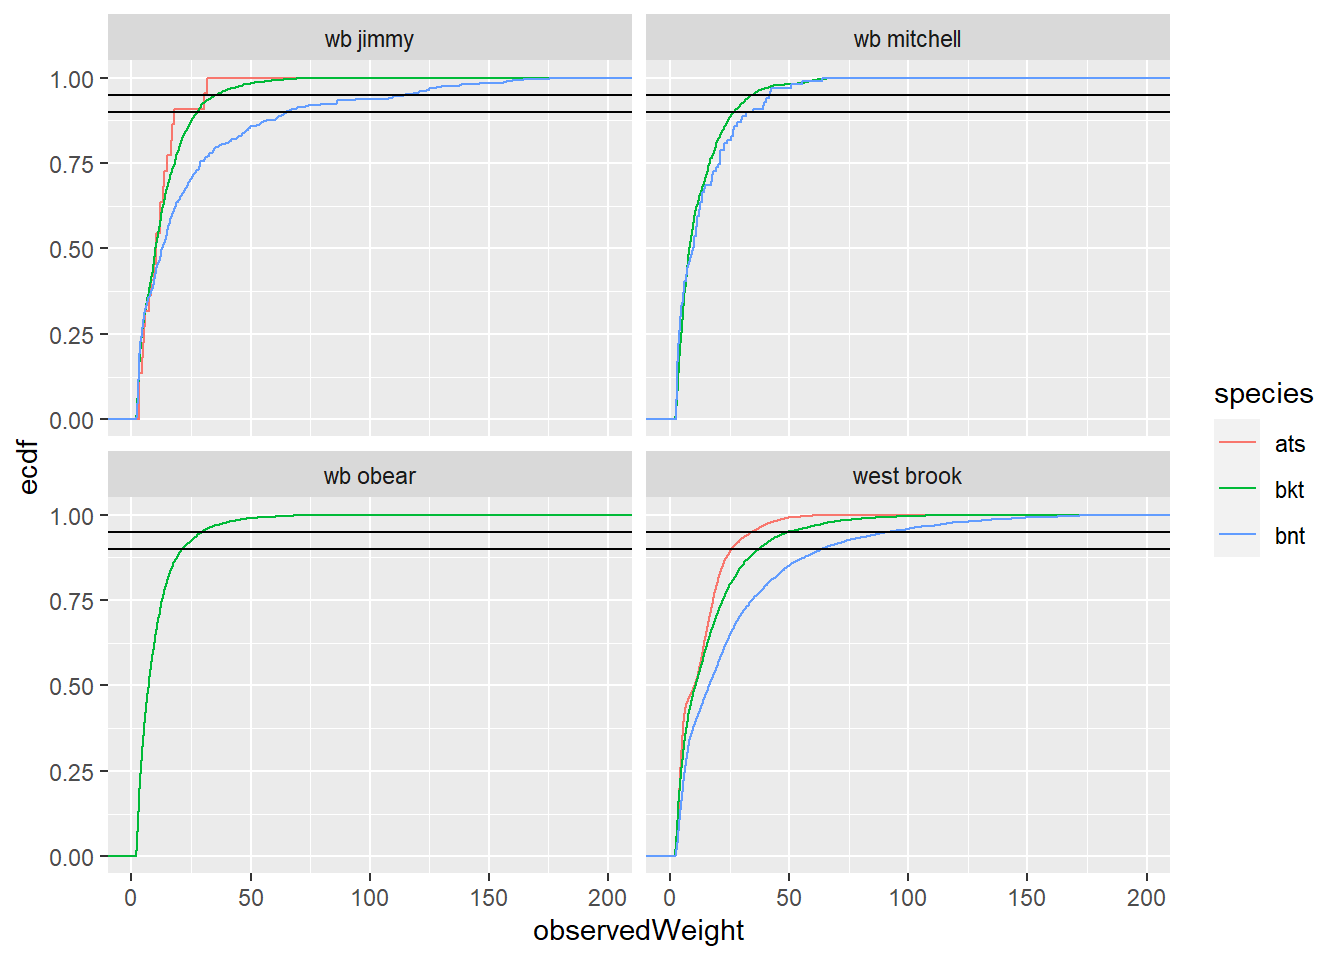
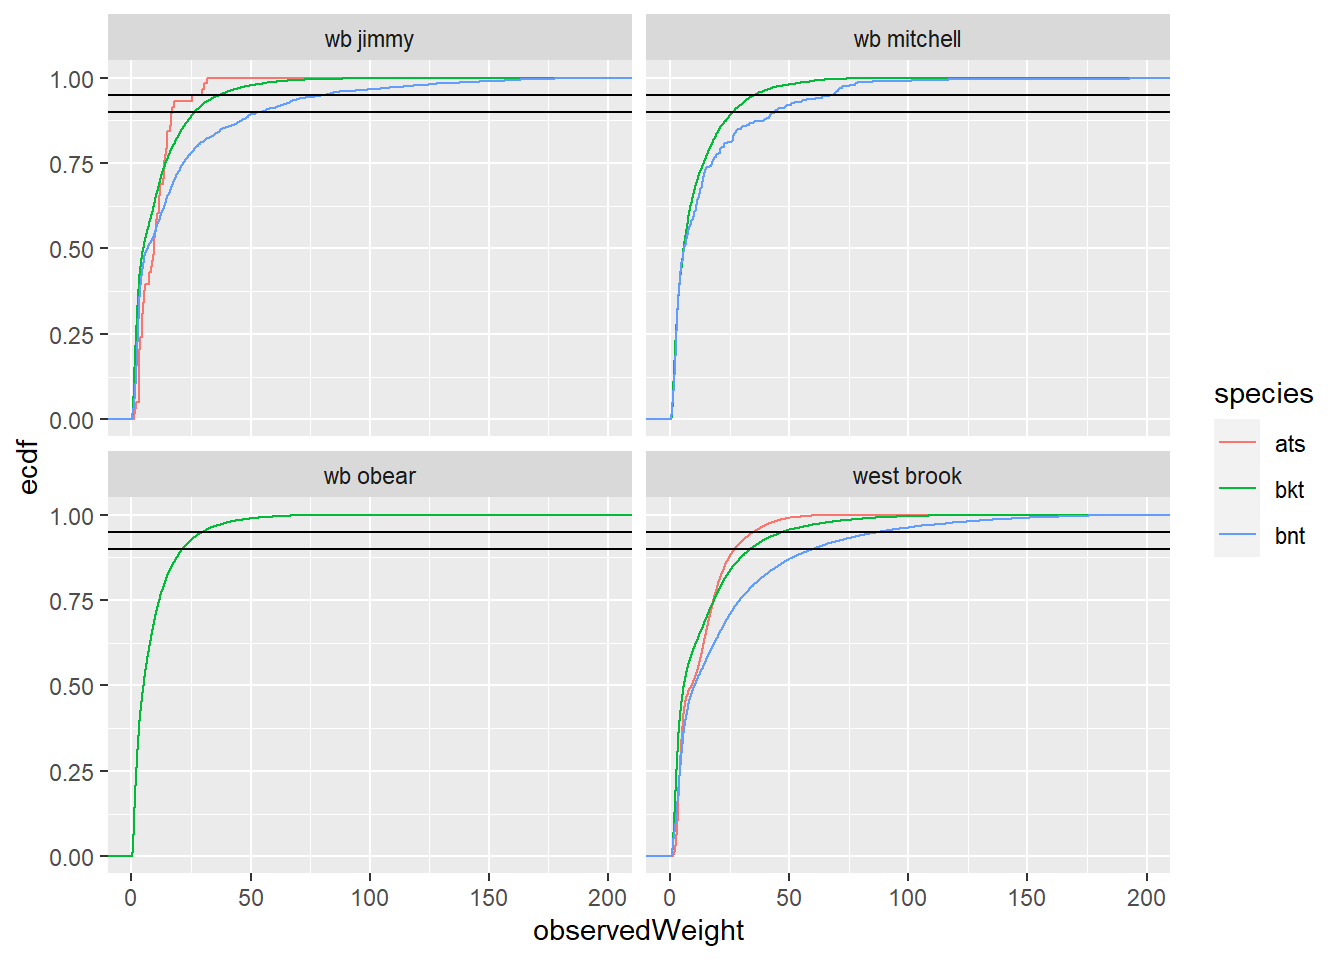
update

diff --git a/docs/getDataElectro.html b/docs/getDataElectro.html
@@ -503,9 +503,9 @@ pre > code.sourceCode > span > a:first-child::before { text-decoration: underlin
 <pre><code># A tibble: 3 × 2
   species     n
   &lt;chr&gt;   &lt;int&gt;
-1 ats      4541
-2 bkt      5786
-3 bnt      2795</code></pre>
+1 ats      7875
+2 bkt     14611
+3 bnt      7204</code></pre>
 </div>
 </div>
 <p>What are the counts by species for <em>untagged</em> fish?</p>
@@ -521,8 +521,12 @@ pre > code.sourceCode > span > a:first-child::before { text-decoration: underlin
 <span id="cb6-7"><a href="#cb6-7" aria-hidden="true" tabindex="-1"></a>  <span class="fu">summarize</span>(<span class="at">n =</span> <span class="fu">n</span>())</span></code><button title="Copy to Clipboard" class="code-copy-button"><i class="bi"></i></button></pre></div>
 </details>
 <div class="cell-output cell-output-stdout">
-<pre><code># A tibble: 0 × 2
-# ℹ 2 variables: species &lt;chr&gt;, n &lt;int&gt;</code></pre>
+<pre><code># A tibble: 3 × 2
+  species     n
+  &lt;chr&gt;   &lt;int&gt;
+1 ats      3419
+2 bkt     16013
+3 bnt      6732</code></pre>
 </div>
 </div>
 <p>Plot length distributions of tagged and untagged fish</p>
@@ -553,10 +557,60 @@ pre > code.sourceCode > span > a:first-child::before { text-decoration: underlin
 <span id="cb9-6"><a href="#cb9-6" aria-hidden="true" tabindex="-1"></a>  <span class="fu">print</span>(<span class="at">n =</span> <span class="dv">50</span>)</span></code><button title="Copy to Clipboard" class="code-copy-button"><i class="bi"></i></button></pre></div>
 </details>
 <div class="cell-output cell-output-stdout">
-<pre><code># A tibble: 1 × 2
-  comments             n
-  &lt;chr&gt;            &lt;int&gt;
-1 shock scars/mort     3</code></pre>
+<pre><code># A tibble: 96 × 2
+   comments                                                                    n
+   &lt;chr&gt;                                                                   &lt;int&gt;
+ 1 shock scars/mort                                                          264
+ 2 shock mort                                                                136
+ 3 tagging mort                                                               52
+ 4 shocking mortality                                                         42
+ 5 shocking mortality; no picture                                             14
+ 6 shocking mort                                                               9
+ 7 mort                                                                        8
+ 8 shock scars/mort/too small to tag                                           7
+ 9 shocking mortality; kept for guts                                           7
+10 tag mort                                                                    5
+11 shock scars/mort/time is estimated based on effort                          3
+12 shocking mort; no video                                                     3
+13 tagging mortality                                                           3
+14 mortality due to lack of oxygen; kept for otoliths                          2
+15 mortality due to ms222 or warm weather                                      2
+16 mortality due to shocking                                                   2
+17 mortality due to shocking; no picture                                       2
+18 mortality due to tagging or warm weather                                    2
+19 ms222 mortality; kept for otoliths                                          2
+20 shocking mortality; kept                                                    2
+21 shocking mortality; kept for guts; no picture                               2
+22 shocking mortality; no tag; no picture                                      2
+23 smolt, shock scars/mort                                                     2
+24 tagging or ms222 mortality? kept for otoliths                               2
+25 walking mortality                                                           2
+26 additional genetic sample / tagging mort                                    1
+27 additional genetic sample/shock scars/mort                                  1
+28 braid sec 29&amp;30/shock scars/mort                                            1
+29 bucket mortality; no picture                                                1
+30 dope mort-with wrong picture label (as 7-1)                                 1
+31 electrofishing mortality (tim did it)                                       1
+32 ethanol mortality courtesy of melissa                                       1
+33 fin clip but no tag and shock mort                                          1
+34 four was a stepped on mort                                                  1
+35 isolated pool/shock scars/mort                                              1
+36 mort (222, tag?)                                                            1
+37 mort (looks like a bnt)                                                     1
+38 mort found                                                                  1
+39 mort stepped on                                                             1
+40 mort; chunk out of side (bird)                                              1
+41 mort; no tag or scales                                                      1
+42 mortality ; found the fish dead; looks like bites on the head and scra…     1
+43 mortality ; no picture                                                      1
+44 mortality due to eating; tag found in bnt (249 mm, 173.4 g)                 1
+45 mortality due to lack of oxygen (stuck on side of bucket)                   1
+46 mortality due to lavage                                                     1
+47 mortality; cause unknown                                                    1
+48 mortality; stepped on                                                       1
+49 mortality; stepped on; no picture                                           1
+50 mortality; tag/ms222?                                                       1
+# ℹ 46 more rows</code></pre>
 </div>
 </div>
 </section>
@@ -634,13 +688,12 @@ pre > code.sourceCode > span > a:first-child::before { text-decoration: underlin
 <div class="cell-output cell-output-stdout">
 <pre><code># A tibble: 3 × 13
 # Groups:   species [3]
-  species r.squared adj.r.…¹  sigma stati…² p.value    df logLik     AIC     BIC
-  &lt;chr&gt;       &lt;dbl&gt;    &lt;dbl&gt;  &lt;dbl&gt;   &lt;dbl&gt;   &lt;dbl&gt; &lt;dbl&gt;  &lt;dbl&gt;   &lt;dbl&gt;   &lt;dbl&gt;
-1 ats         0.989    0.989 0.0945  2.08e6       0     1 22663. -45319. -45295.
-2 bkt         0.991    0.991 0.112   4.64e6       0     1 32555. -65105. -65079.
-3 bnt         0.996    0.996 0.0858  4.09e6       0     1 18345. -36683. -36660.
-# … with 3 more variables: deviance &lt;dbl&gt;, df.residual &lt;int&gt;, nobs &lt;int&gt;, and
-#   abbreviated variable names ¹adj.r.squared, ²statistic</code></pre>
+  species r.squared adj.r.squared  sigma statistic p.value    df logLik     AIC
+  &lt;chr&gt;       &lt;dbl&gt;         &lt;dbl&gt;  &lt;dbl&gt;     &lt;dbl&gt;   &lt;dbl&gt; &lt;dbl&gt;  &lt;dbl&gt;   &lt;dbl&gt;
+1 ats         0.989         0.989 0.0945  2080611.       0     1 22663. -45319.
+2 bkt         0.991         0.991 0.112   4643341.       0     1 32555. -65105.
+3 bnt         0.996         0.996 0.0858  4092957.       0     1 18345. -36683.
+# ℹ 4 more variables: BIC &lt;dbl&gt;, deviance &lt;dbl&gt;, df.residual &lt;int&gt;, nobs &lt;int&gt;</code></pre>
 </div>
 </div>
 </section>
